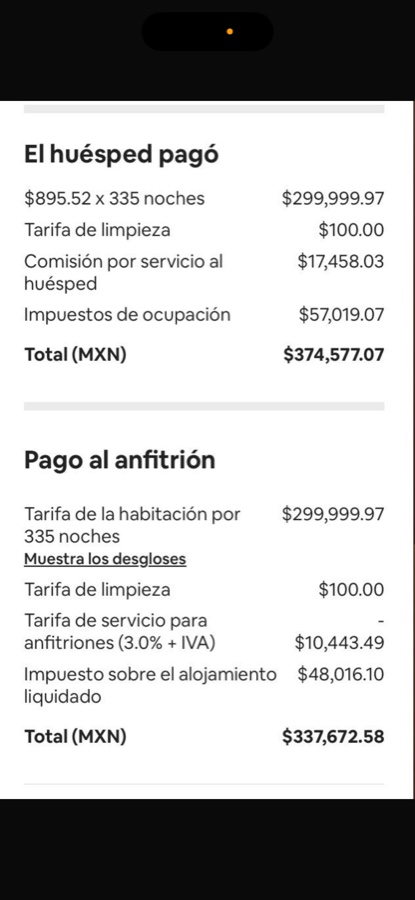
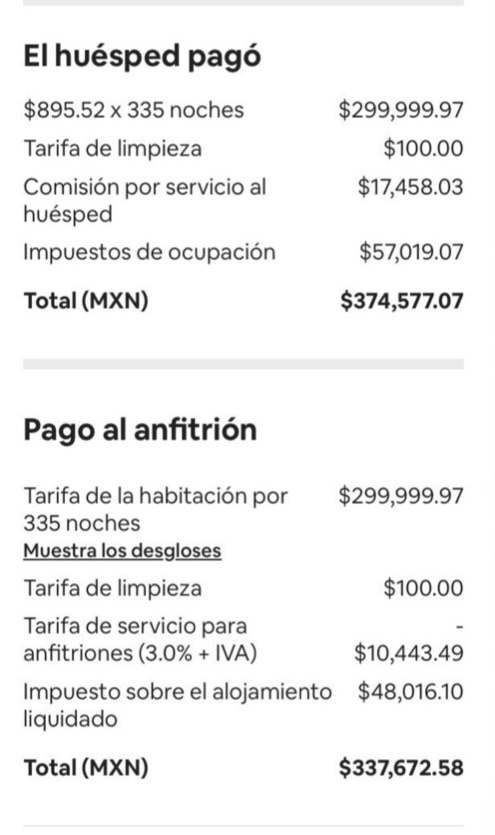
Resultados: dashboard de ingresos destacado + calendario/ingresos recortados (sin fondo negro)
- Usa el panel de rendimiento nuevo ($431k) como prueba destacada
- Quita los screenshots de 'Cobro de...'
- Recorta calendario e ingresos para eliminar las barras negras del telefono

diff --git a/index.html b/index.html
@@ -1132,13 +1132,14 @@
   .resultados .section-sub { color: rgba(255,255,255,0.65); }
   .resultados-big { font-family: 'Playfair Display', serif; font-weight: 700; font-size: clamp(34px,5vw,52px); color: #E6C57C; line-height: 1; margin: 0.5rem 0; }
   .resultados-big small { display: block; font-family: 'DM Sans', sans-serif; font-weight: 300; font-size: 13px; color: rgba(255,255,255,0.55); letter-spacing: 1px; text-transform: uppercase; margin-top: 8px; }
-  .resultados-grid { display: grid; grid-template-columns: repeat(4, 1fr); gap: 16px; max-width: 960px; margin: 2.5rem auto 0; align-items: start; }
+  .resultados-featured { max-width: 760px; margin: 2.5rem auto 16px; }
+  .resultados-grid { display: grid; grid-template-columns: repeat(2, 1fr); gap: 16px; max-width: 600px; margin: 0 auto; align-items: start; }
   .proof-card { background: #fff; border: 1px solid rgba(255,255,255,0.1); border-radius: 16px; padding: 10px; transition: transform .25s ease; }
   .proof-card:hover { transform: translateY(-4px); }
   .proof-card img { width: 100%; height: auto; border-radius: 10px; display: block; }
   .proof-card figcaption { font-size: 12px; color: var(--mid); margin-top: 10px; font-weight: 500; padding-bottom: 4px; text-align: center; }
+  @media (max-width: 600px) { .resultados-grid { grid-template-columns: 1fr; } }
   .resultados-note { font-size: 12px; color: rgba(255,255,255,0.4); margin-top: 1.5rem; font-style: italic; }
-  @media (max-width: 768px) { .resultados-grid { grid-template-columns: 1fr 1fr; } }
 
   /* ===== TESTIMONIO REAL (captura) ===== */
   .testi-real { background: #fff; border: 1px solid var(--beige-dark); border-radius: 16px; padding: 12px; overflow: hidden; }
@@ -1485,23 +1486,19 @@
   <span class="section-label gold">Resultados reales</span>
   <h2 class="section-title">Esto no es teoría — son mis números reales</h2>
   <div class="resultados-big">+$330,000 MXN<small>generados con una sola propiedad</small></div>
-  <p class="section-sub">Pagos, reservas e ingresos reales de mi propio Airbnb. Es exactamente el sistema que aprendes en el curso.</p>
+  <p class="section-sub">Ingresos y reservas reales de mi propio Airbnb. Es exactamente el sistema que aprendes en el curso.</p>
+  <figure class="proof-card resultados-featured">
+    <img src="assets/proof-dashboard.jpg" alt="Panel de rendimiento de Airbnb con ingresos por mes" loading="lazy">
+    <figcaption>Mi panel de ingresos en Airbnb</figcaption>
+  </figure>
   <div class="resultados-grid">
     <figure class="proof-card">
-      <img src="assets/proof-pago-1.jpg" alt="Pago real de Airbnb" loading="lazy">
-      <figcaption>Pago de $15,611 a mi cuenta</figcaption>
-    </figure>
-    <figure class="proof-card">
-      <img src="assets/proof-pago-2.jpg" alt="Pago real de Airbnb" loading="lazy">
-      <figcaption>Otro pago de $19,321</figcaption>
-    </figure>
-    <figure class="proof-card">
-      <img src="assets/proof-ingresos.jpg" alt="Desglose de ingresos de Airbnb" loading="lazy">
-      <figcaption>Ingresos de una propiedad</figcaption>
+      <img src="assets/proof-ingresos.jpg" alt="Desglose de ingresos de una propiedad en Airbnb" loading="lazy">
+      <figcaption>Ingresos de una sola propiedad</figcaption>
     </figure>
     <figure class="proof-card">
       <img src="assets/proof-calendario.jpg" alt="Calendario de Airbnb lleno de reservas" loading="lazy">
-      <figcaption>Mi calendario, lleno</figcaption>
+      <figcaption>Mi calendario, lleno de reservas</figcaption>
     </figure>
   </div>
   <p class="resultados-note">* Capturas reales de mi cuenta de anfitriona en Airbnb.</p>
